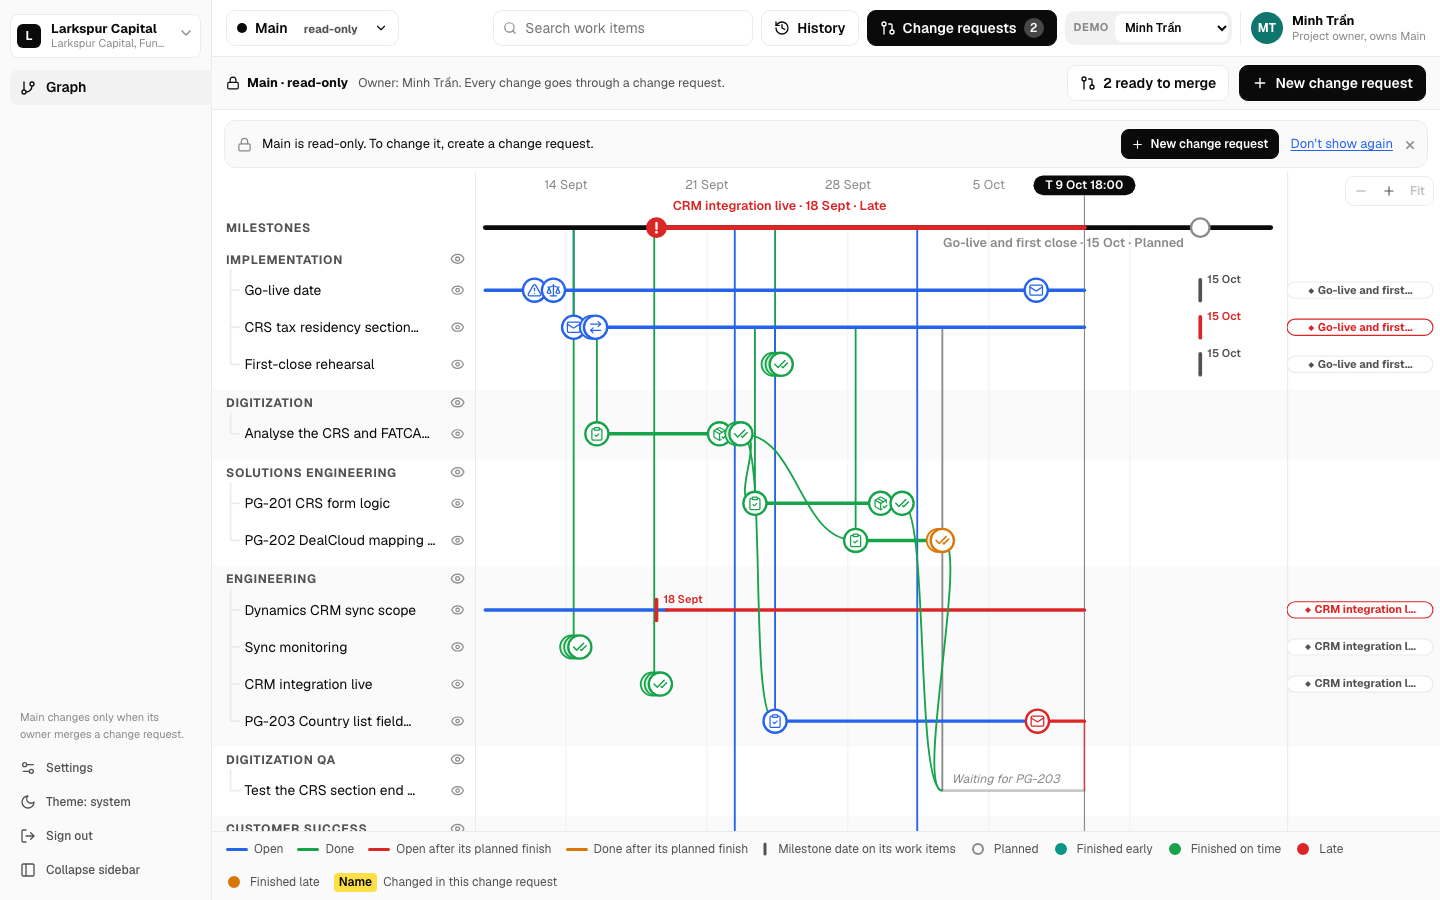
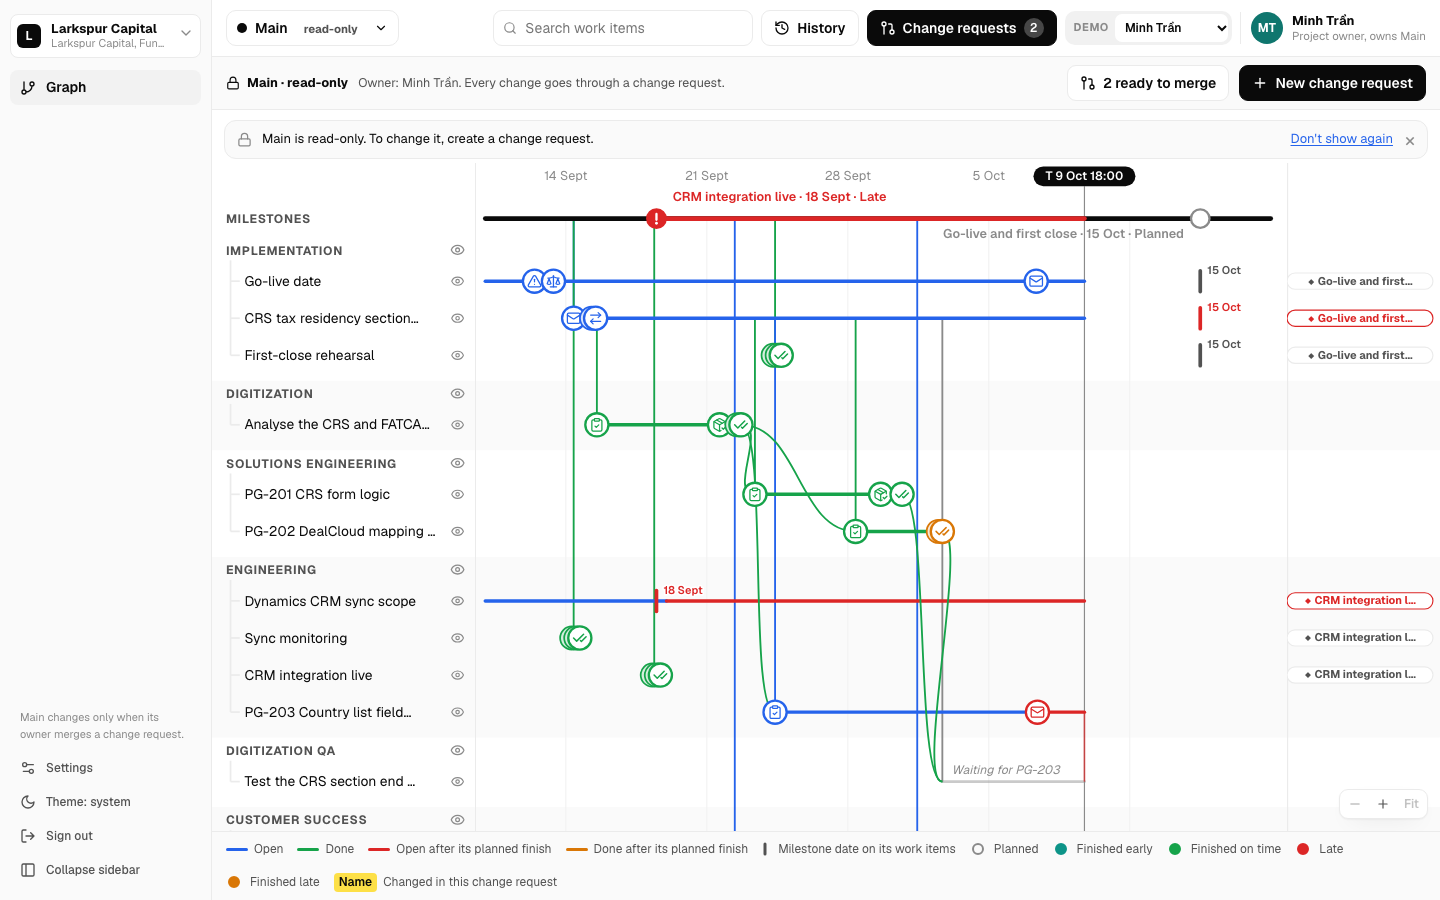
docs: event positions inside a day, the branch chip, and the zoom corner
- The spec describes the sideways drag in every view, the offsets table,
  the PUT route, the payload field and the chip on direct children only.
- The README explains your own event positions and the new places of
  the zoom group and New change request. The main screenshot shows the
  quieter notice and the zoom group at the bottom right.

diff --git a/docs/superpowers/specs/2026-10-16-event-tracker-design.md b/docs/superpowers/specs/2026-10-16-event-tracker-design.md
@@ -13,9 +13,9 @@ Promise Graph becomes an event tracker for a whole project. It shows what happen
 
 1. Event kinds: Message, Task, Handoff, Decision, Meeting, Delivery, Issue, Done. No promise semantics. A work item is done when it has a visible Done event; its finish time is the time of its last visible Done event.
 2. One row per work item, under its team (lane), indented. A work item has an optional parent and zero or more "leads from" links (`after`).
-3. Eye toggles hide a row or a whole team. A hidden row leaves no row, no line and no link on the graph. A hidden team keeps its head line, with the eye off and an "N hidden" button that shows its rows again. A shown team with hidden rows also shows "N hidden". A row whose parent or "leads from" source is hidden gets a small ↖ chip: its tooltip lists each hidden source as "From <title> (hidden)", and a click shows them again. The graph draws no ghost line for a hidden source, and no line on the graph is dashed or dotted. Search and the links of the details panel show a hidden row again. Hide state is per viewer, kept in `localStorage`, never versioned.
+3. Eye toggles hide a row or a whole team. A hidden row leaves no row, no line and no link on the graph. A hidden team keeps its head line, with the eye off and an "N hidden" button that shows its rows again. A shown team with hidden rows also shows "N hidden". A row whose own parent or own "leads from" source is hidden gets a small chip with the branch icon of the Graph rail item: its tooltip lists each hidden source as "From <title> (hidden)", and a click shows them again. Only direct children get the chip: a row that comes from the hidden source through a shown row (a grandchild) gets none. The graph draws no ghost line for a hidden source, and no line on the graph is dashed or dotted. Search and the links of the details panel show a hidden row again. Hide state is per viewer, kept in `localStorage`, never versioned.
 4. Queue: events and work items wait in a project Queue until someone drags them onto the graph. People add them with Add; agents add them through MCP. No email or Slack sync.
-5. Drag and drop works only in a draft change request that the acting member edits. A Queue work item onto a team places it (onto a milestone circle sets its milestone while it waits); a Queue event onto a work item attaches it; a Queue event onto a team opens "New work item" from it; an event up or down moves it to another work item; anything onto the bin hides it (events) or removes it from the Queue (Queue cards). The bin shows only while something is dragged. A work item name onto a milestone circle adds it to that milestone. Every drop has a click alternative (pops and modals).
+5. Drag and drop changes the graph only in a draft change request that the acting member edits. A Queue work item onto a team places it (onto a milestone circle sets its milestone while it waits); a Queue event onto a work item attaches it; a Queue event onto a team opens "New work item" from it; an event up or down moves it to another work item; anything onto the bin hides it (events) or removes it from the Queue (Queue cards). The bin shows only while something is dragged. A work item name onto a milestone circle adds it to that milestone. Every drop has a click alternative (pops and modals). In every view, Main included, a sideways drag of an event moves its icon inside its own calendar day (the project time zone), for example to pull a stack apart. That position is a display choice of the signed-in person: it is stored per person and project on the server, needs no change request, and never changes the event time, which tooltips and pops keep showing. The event pop has Reset position.
 6. Milestones have 5 statuses: Planned, Finished early, Finished on time, Late, Finished late. A milestone is done when all its work items are done; its finish is the latest finish of its work items. Late = not done and today is after the planned date.
 7. Each work item has a Planned finish (a date). Work items use the same 5 statuses against their own Planned finish. Moving a Planned finish or a milestone date needs a written reason (not empty after trim). The app keeps the first date and every move: who, when, from, to, why. The graph draws no date flag for a work item. The pop of a work item shows its Planned finish and a "moved N×" link to its moves, and the details panel lists the first date and every move. In an editable change request, Move the date in the pop or the details panel opens the reason dialog, and a drag of the milestone circle opens it with the dropped date.
 8. Colours and marks:
@@ -28,7 +28,7 @@ Promise Graph becomes an event tracker for a whole project. It shows what happen
    - The T line is a solid thin grey line. No line on the graph is dashed or dotted.
 9. No breakdown types and no day-count rules (no reply, accept, hedge or at-risk windows).
 10. Projects: a signed-in user creates a project (client, project name, teams one per line, optional first milestone with date). Each project has one Main graph. The creator owns Main. A team can also be added later through a change request.
-11. Main is read-only, and so is every view that the acting member cannot edit: someone else's draft, a ready, merged or closed CR, and a viewer. Such a view has no drag and drop, no edit buttons in pops and drawers, and no "+" buttons; pops and drawers show the information only. On entering Main, a notice at the top says "Main is read-only. To change it, create a change request." with New change request, a close ×, and Don't show again (kept per user in `localStorage`). In other read-only CR views, the context bar says what to do (Ask to edit, Edit again, Review).
+11. Main is read-only, and so is every view that the acting member cannot edit: someone else's draft, a ready, merged or closed CR, and a viewer. Such a view has no drag and drop that changes the graph (only the sideways move of decision 5), no edit buttons in pops and drawers, and no "+" buttons; pops and drawers show the information only. On entering Main, a notice at the top says "Main is read-only. To change it, create a change request." with a close × and Don't show again (the context bar holds New change request) (kept per user in `localStorage`). In other read-only CR views, the context bar says what to do (Ask to edit, Edit again, Review).
 12. Change request (CR): statuses Draft, Ready, Merged, Closed. Numbered per project (#1, #2...). A CR view always shows the latest Main plus the CR's own changes. There is no Sync.
 13. Share: the current editor adds people with Can edit or Can view. Everyone in the project can view every CR.
 14. One editor at a time. The author edits first. A person with Can edit (or the author) presses Ask to edit; the current editor presses Hand over or Not now. The editor can also hand over without an ask (Share, Hand over). Asks wait; nothing moves editing automatically.
@@ -95,10 +95,10 @@ The queue in the state: `initial = base + all queue rows that are not dismissed`
 ### 3.4 Status and layout (`src/tracker/status.ts`, `src/tracker/layout.ts`)
 
 - `itemStatus(item, events, asOf, timeZone)` and `milestoneStatus(milestone, items, events, asOf, timeZone)` return `planned | early | ontime | late | flate` with the prototype rules, compared by calendar day in the project time zone.
-- `layoutTracker(state, view, marks?)` returns a render model: lanes (with the "N hidden" button of a team), rows, line segments with colours, event groups (icons stacked when closer than 16 units, with every id), milestone circles with 2 label levels, milestone chips (`msChips`) and deadline ticks (`goalTicks`), ↖ chips for hidden sources (`chips`), trunk segments, "leads from" curves, parent stems, the T line and the axis ticks. A row with a hidden parent gets a chip and no stem. `view = { hiddenRows, hiddenTeams, asOf, timeZone, zoom, windowStart }`. Default window: from `project.windowStart` (or 21 days before the earliest open item's start) to the later of `asOf + 7 days` and the latest planned date + 3 days.
+- `layoutTracker(state, view, marks?)` returns a render model: lanes (with the "N hidden" button of a team), rows, line segments with colours, event groups (icons stacked when closer than 16 units, with every id), milestone circles with 2 label levels, milestone chips (`msChips`) and deadline ticks (`goalTicks`), ↖ chips for hidden sources (`chips`), trunk segments, "leads from" curves, parent stems, the T line and the axis ticks. A row with a hidden parent gets a chip and no stem. `view = { hiddenRows, hiddenTeams, asOf, timeZone, zoom, offsets, windowStart }`. An event is drawn at its time plus the offset of the viewer, clamped to its day, and the stacks use the drawn x. Default window: from `project.windowStart` (or 21 days before the earliest open item's start) to the later of `asOf + 7 days` and the latest planned date + 3 days.
 - Geometry: viewBox width 1060, a fixed label column of 228 units (`SIDE`), a fixed milestone chip column of 132 units (`RAIL`, present only when a shown row has a milestone), row 32, head 22. At zoom 1 the three columns fill the width. `zoom` (1 to 12) stretches only the time line, which scrolls on its own while the label column and the chip column stay put. The axis ticks every day once a day is 60 units wide. The graph scales to the container width.
 
-### 3.5 Storage (migration `0004_tracker.sql`, Drizzle in `src/server/db/schema.ts`)
+### 3.5 Storage (migrations `0004_tracker.sql` and `0006_event_offsets.sql`, Drizzle in `src/server/db/schema.ts`)
 
 All tables carry `workspace_id` and `project_id` with the existing composite foreign key pattern (`inProject`).
 
@@ -112,6 +112,7 @@ All tables carry `workspace_id` and `project_id` with the existing composite for
 | `tracker_cr_shares` | `cr_id`, `member_id`, `permission` (`edit`/`view`); PK (`cr_id`, `member_id`) |
 | `tracker_cr_asks` | `cr_id`, `member_id`, `created_at`; PK (`cr_id`, `member_id`) |
 | `tracker_cr_comments` | `id` PK, `cr_id`, `member_id`, `kind` (`created`, `ready`, `unready`, `changes`, `comment`, `resolved`, `merged`, `closed`, `shared`, `ask`, `handover`, `decline`), `body` text null, `op_index` int null, `created_at` |
+| `tracker_event_offsets` | `user_id` FK users (the signed-in person, also while acting as another member), `event_id` text, `offset_minutes` int, `updated_at`; PK (`project_id`, `user_id`, `event_id`) |
 
 Every write locks the project row (existing `lockProject`) or the CR row, checks `expectedRevision` where given, and runs in one transaction.
 
@@ -139,9 +140,10 @@ Every write locks the project row (existing `lockProject`) or the CR row, checks
 | `POST /tracker/crs/[num]/ops` | `{op, expectedRevision}` | payload |
 | `DELETE /tracker/crs/[num]/ops/[index]` | `{expectedRevision}` | payload (index `last` = undo) |
 | `POST /tracker/crs/[num]/actions` | `{action, ...}` where action is `ready`, `unready`, `ask`, `cancel-ask`, `handover {to}`, `decline {who}`, `share {memberId, permission}` (`permission: 'remove'` deletes), `comment {body, opIndex?}`, `merge {picks}`, `request-changes {note}`, `close` | payload |
+| `PUT /tracker/offsets/[eventId]` | `{minutes}`: an integer that keeps the event inside its day; 0 deletes the row | payload |
 | `POST /projects` | `{clientName, title, teams[], milestone?}` | the new project (tracker project, creator owns Main) |
 
-`TrackerPayload = { project: {id, title, clientName, timeZone, windowStart, asOf, demo, ownerMemberId}, members: Member[], me: Member | null, base, queue: {events, items}, commits: Commit[], crs: Cr[] }` where `Cr` holds ops, shares, asks and comments. The browser polls `GET /tracker` every 5 seconds while the page is visible, so asks and hand-overs show up without reload.
+`TrackerPayload = { project: {id, title, clientName, timeZone, windowStart, asOf, demo, ownerMemberId}, members: Member[], me: Member | null, base, queue: {events, items}, commits: Commit[], crs: Cr[], offsets: Record<eventId, minutes> }` where `Cr` holds ops, shares, asks and comments, and `offsets` holds the day offsets of the signed-in person. The browser polls `GET /tracker` every 5 seconds while the page is visible, so asks and hand-overs show up without reload.
 
 ### 3.8 UI (`src/components/tracker/`)
 
@@ -151,7 +153,7 @@ Port the prototype screen by screen, with the app's tokens (`src/app/globals.css
 - `TopBar`: view switcher, Search work items, History, Change requests with count, demo select, acting member.
 - `ContextBar`: what the view is and what the person can do; `MainNotice`.
 - `QueuePanel`: only in a draft CR that the acting member edits; a toggle hides it and a "Queue N" button shows it again.
-- `TrackerGraph`: SVG from `layoutTracker`, zoom buttons (Zoom out, Zoom in ×1.5, Fit) and Ctrl or Cmd with the wheel, pointer drag and drop with ghost and drop highlight, bin. A `reveal` prop zooms to 2× when at fit, scrolls the row into view (left of an open drawer), and flashes it for 1.5 s.
+- `TrackerGraph`: SVG from `layoutTracker`, zoom buttons (Zoom out, Zoom in ×1.5, Fit) floating at the bottom right of the graph area and Ctrl or Cmd with the wheel, pointer drag and drop with ghost and drop highlight, bin. A `reveal` prop zooms to 2× when at fit, scrolls the row into view (left of an open drawer), and flashes it for 1.5 s.
 - `Search`: a combobox that matches the title, the team name and the people (case and Vietnamese marks ignored), and lists up to 8 results with the team and a status chip. Arrow keys, Enter, Esc and a click work. A pick shows the row if it or its team is hidden, reveals it on the graph and opens its details.
 - `Pops`: event, stack of events, work item (with See details), date moves, rename, kind. Edit buttons show only in an editable view.
 - `Drawers`: Work item details, Milestone, Changes, Change requests, History. The Work item details show the title, team, Done by, Requested by, milestone with its status and date, the status chip, the Planned finish with the first date and every move, Started (first visible event), Finished (last Done event) or Open, Time spent as "123 h (5.1 days)" up to the finish or to now, parent and "leads from" links, all events newest first (hidden ones marked "hidden"), and the eye toggle. In an editable view it also has Add an event, Move the date and Rename. A click on an event opens its pop on the graph.
@@ -174,9 +176,9 @@ After the tracker screens work: delete the promise engine, records, inbox, evide
 
 ## 4. Testing
 
-- Unit (Vitest): ops (every op, skipped cases, ids), clashes (the owner rule: a change made after seeing the new Main value does not clash; identical changes drop; field-level keys), statuses (5 values per item and milestone, day boundaries in the time zone), time spent, search matching and order, layout (rows per team, hidden rows and ↖ chips, milestone chips and ticks, colours, label levels, zoom), describe and diff lines.
+- Unit (Vitest): ops (every op, skipped cases, ids), clashes (the owner rule: a change made after seeing the new Main value does not clash; identical changes drop; field-level keys), statuses (5 values per item and milestone, day boundaries in the time zone), time spent, search matching and order, layout (rows per team, hidden rows and the chips of direct children, day offsets, milestone chips and ticks, colours, label levels, zoom), describe and diff lines.
 - Integration (Vitest with `TEST_DATABASE_URL`): project creation and owner; queue add and dismiss; CR create, op append under the lock with `expectedRevision`; ask, hand over, not now, cancel; share; ready and edit again; merge without clash; merge with picks and the recorded resolutions; stale picks rejected; request changes; close; every permission rule rejects the wrong member; act-as only in demo projects; seed contents.
-- E2E (Playwright, run in a separate worktree, never against port 3100): the 13 prototype tasks of v8 section 3 (step 2 starts with New change request), the Main notice and Don't show again, no drag and no edit buttons on Main, the search for PG-203 and its details, milestone ticks and chips, stacks, zoom and hiding, light theme, plus a phone-width overflow check.
+- E2E (Playwright, run in a separate worktree, never against port 3100): the 13 prototype tasks of v8 section 3 (step 2 starts with New change request), the Main notice and Don't show again, no drag and no edit buttons on Main, the search for PG-203 and its details, milestone ticks and chips, stacks, zoom and hiding, an event moved inside its day that stays after a reload, light theme, plus a phone-width overflow check.
 - Gates: `tsc --noEmit`, `eslint .`, `prettier --check .`, `vitest run`, Playwright. Capture each real exit code.
 
 ## 5. Out of scope

diff --git a/README.md b/README.md
@@ -9,14 +9,15 @@ People and their agents add events and work items to a Queue. In a change reques
 ## What it does
 
 - **Events.** An event is a Message, Task, Handoff, Decision, Meeting, Delivery, Issue or Done. Each event sits on the row of one work item.
-- **Work items and teams.** Each work item has one row under its team. A work item can have a parent and can lead from other work items. It is done when it has a Done event. The eye buttons hide a row or a whole team for you only. A hidden row leaves no line on the graph. A row whose parent or source is hidden shows a small ↖ arrow. Press the arrow to show that row again.
+- **Work items and teams.** Each work item has one row under its team. A work item can have a parent and can lead from other work items. It is done when it has a Done event. The eye buttons hide a row or a whole team for you only. A hidden row leaves no line on the graph. A row whose own parent or source is hidden shows a small branch chip. Press the chip to show that row again.
 - **Milestones.** A milestone has 5 statuses: Planned, Finished early, Finished on time, Late and Finished late. It is done when all its work items are done. Its circle on the milestone line shows the status.
 - **Milestone chips and ticks.** Each work item in a milestone shows a chip with the milestone name at the right of its row. The row also shows a short tick at the milestone date while that date has not passed, or when the row makes the milestone late. The chip and the tick are red when an open row makes the milestone late, and amber when the row finished after the milestone date. A click on a chip or a tick opens the milestone.
 - **Planned finish.** Each work item has a Planned finish date and the same 5 statuses. To move a Planned finish or a milestone date, you must write a reason. The app keeps the first date and every move: who, when, from, to and why.
 - **Queue.** New events and work items wait in the Queue. People add them with **Add**, and agents add them through MCP. The Queue shows only in a change request that you edit. Drag a card onto a work item or a team to place it. Every drag also has a click way. The Queue toggle hides the Queue, so the graph gets the full width.
-- **Main is read-only.** On Main, the graph and its pops show information only: no drag, no edit buttons. A notice at the top says so and has **New change request**. **Don't show again** hides the notice for you. A merged or closed change request and a change request that someone else edits are read-only too.
+- **Main is read-only.** On Main, the graph and its pops show information only: no drag that changes the graph, no edit buttons. A notice at the top says so; **New change request** is in the bar above it. **Don't show again** hides the notice for you. A merged or closed change request and a change request that someone else edits are read-only too.
 - **Search.** Type in **Search work items** at the top right. The search matches the title, the team and the people of each work item. Pick a result with the arrow keys and Enter, or with a click. The graph shows the row again if it is hidden, zooms to it and flashes it. The details panel opens: the status, the planned finish with every move and its reason, the start, the finish, the time spent in hours and days, the parent, the sources and all the events. A click on an event opens its pop on the graph.
-- **Zoom.** The zoom buttons at the top right of the graph stretch the time line. Ctrl (or Cmd) and the mouse wheel also zoom. **Fit** shows the whole window again.
+- **Your own event positions.** Drag an event left or right to move its icon inside its day, for example to pull a stack apart. This works in every view, Main included. The position is yours only, stays after a reload, and never changes the event time. **Reset position** in the event pop puts it back.
+- **Zoom.** The zoom buttons at the bottom right of the graph stretch the time line. Ctrl (or Cmd) and the mouse wheel also zoom. **Fit** shows the whole window again.
 - **Change requests.** A change request is a Draft, Ready, Merged or Closed. It always shows the latest Main plus its own changes. **Share** gives a person Can edit or Can view. Everyone in the project can view every change request.
 - **One editor at a time.** A person with Can edit presses **Ask to edit**. The current editor presses **Hand over** or **Not now**.
 - **Ready.** **Mark as ready** locks the change request. The editor presses **Edit again** to unlock it.
